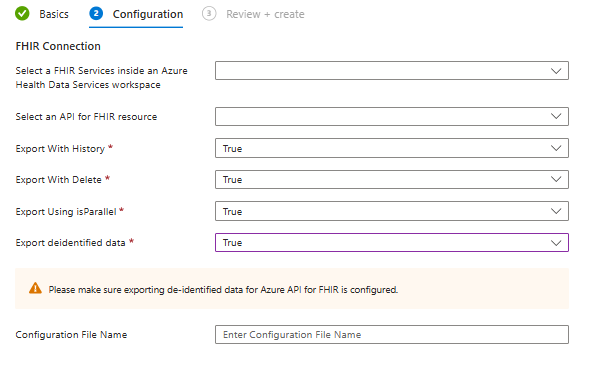
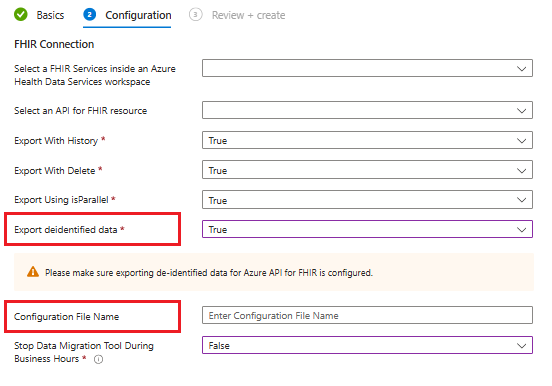
update screenshotand template refactoring

Changed region(s): [[0.0, 0.2359, 0.9855, 0.9437], [0.0, 0.0, 0.9855, 0.2359], [0.0308, 0.2654, 0.2772, 0.3244]]

diff --git a/FHIR-data-migration-tool-docs/README.md b/FHIR-data-migration-tool-docs/README.md
@@ -250,7 +250,7 @@ During the deployment of the migration tool, you will have the option to enable 
 
 Take a look at the screenshot below to learn how to configure the export settings. By default, exporting with isParallel is set to true. If you prefer to export without isParallel, you can change the value to false.
 
-![Export](images/isParallel.png)
+![Export](images/Export-with-isParallel.png)
 
 Upon the completion of deployment, you can still make adjustments to the export settings for isParallel by modifying the values within the Azure function's environment variable. 
 
@@ -283,6 +283,33 @@ Take a look at the screenshot below to learn how to configure the export setting
 ![De-Identified](images/Export-with-history-and-delete-deidentified.png)
 
 
+### Stop Data Migration Tool During Business Hours
+
+The migration tool allows you to specify a time frame during which no new export operations will start. By setting a time frame, you can ensure that new exports do not begin during business hours, while still allowing ongoing exports to complete and new exports to start after the specified time frame ends.
+
+During the deployment of the migration tool, you will have the option to enable or disable "Stop Migration Tool During Business Hours" by specifying its value as true or false. If you select true, you will also need to enter the start time and end time for the restricted period  in UTC. By default, the start time is set to 8 and the end time is set to 17.
+
+Take a look at the screenshot below to learn how to configure these settings. By default, the value of "Stop Migration Tool During Business Hours" is set to false. If you prefer to stop the migration tool during business hours, you can change the value to true and specify the start time and end time in a 24-hour format format in UTC.<br>
+
+![StopDM](images/Stop-Data-MigrationTool.png)
+
+Upon the completion of deployment, you can still make adjustments to the export settings to stop the migration tool by modifying the values within the Azure function's environment variables.
+
+Example:
+```
+Name: AZURE_StopDm
+Value: True
+```
+You can also specify the start and end times for the restricted period. For example, if you do not want new exports to start between 09:00 AM and 06:00 PM, modify the following values within the Azure function's environment variables
+
+Example:
+```
+Name: AZURE_StartTime
+Value: 9
+
+Name: AZURE_EndTime
+Value: 18
+``` 
 ## Export in the migration tool
 
 The [built-in API for FHIR $export operation](https://learn.microsoft.com/azure/healthcare-apis/azure-api-for-fhir/export-data) is leveraged in this migration tool for exporting the data from API for FHIR server. The $export PaaS endpoints are asynchronous, long-running HTTP APIs. 
